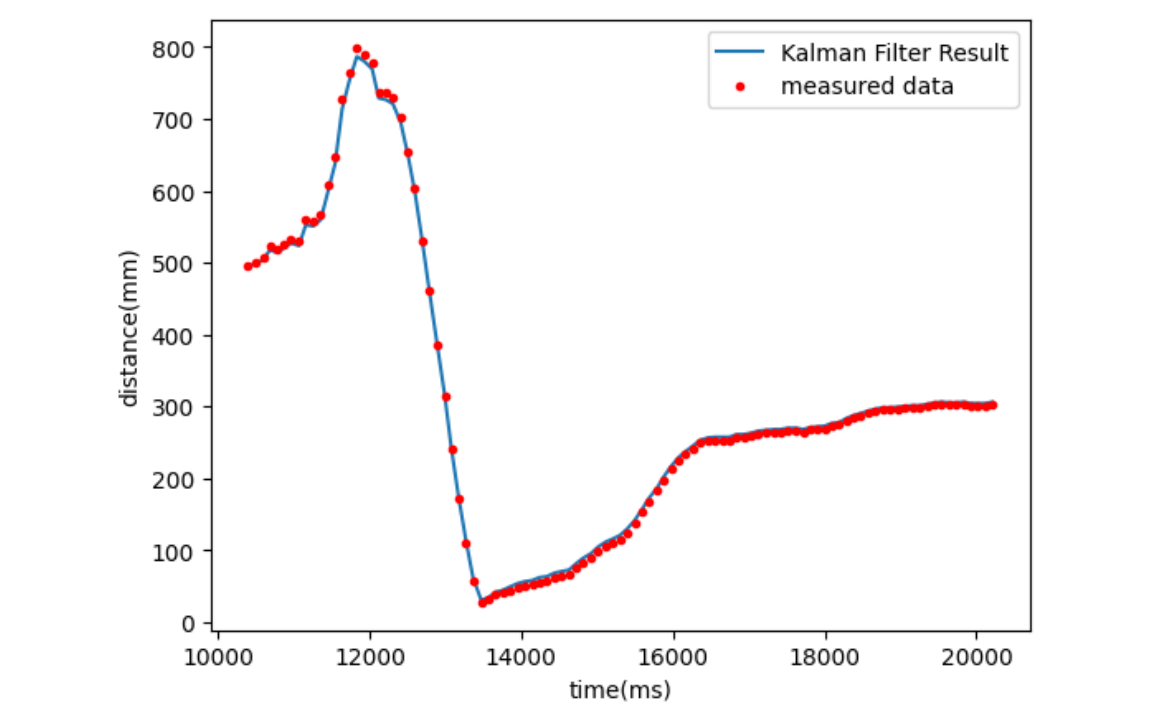
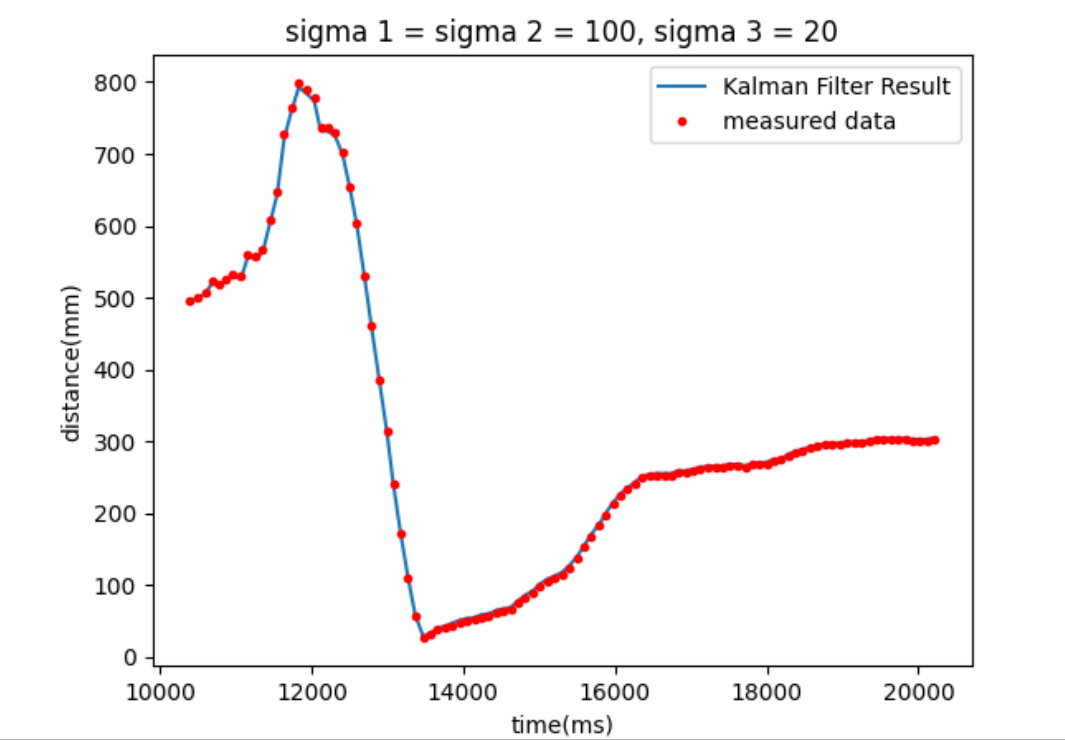
lab 7 update

diff --git a/index.html b/index.html
@@ -1162,7 +1162,7 @@ if(error > 5) {
               <hr>
               <h3> Lab Tasks </h3>
               <h4> 1. Estimate Drag and Momentum</h4>
-              <p style="text-align: left;padding: 0px 30px;"> I did not specify a PWM value nor a step size for lab 6, so I picked the maximum PWM value produced from the last run in Lab6 : PID controller, which was 83 out of 255. I used to store read data every 100ms even though I continously read from the sensor when it was ready and used that reading to compute PID. For now, I remove the 100ms limit and record every data point from cotinous reading to get fast sampling. Moreover, to get a smooth curve instead of stepwise curve for distance (which could result in a speed of 0 after calculation) as in lab 6, I store data in local arrays whenever ToF sensor 1 is ready. In the code shown below, I drive the car with the maximum PWM value of 83 for 2.5 seconds to ensure constant speed has been reached, and actively brake it using a PWM value of -83 for 0.5 second to ensure it does not crash into the wall, and then make it stop.  </p>
+              <p style="text-align: left;padding: 0px 30px;"> I did not specify a PWM value nor a step size for lab 6, so I picked the maximum PWM value produced from the last run in Lab6 : PID controller, which was 83 out of 255. I used to store read data every 100ms even though I continously read from the sensor when it was ready and used that reading to compute PID. For now, I remove the 100ms limit and record every data point from cotinous reading to get fast sampling. Moreover, to get a smooth curve instead of stepwise curve for distance (which could result in a speed of 0 after calculation) as in lab 6, I store data in local arrays whenever ToF sensor 1 is ready. In the code shown below, I drive the car with the maximum PWM value of 83 for 3 seconds to ensure constant speed has been reached, and stop it by setting PWM values to 0s. I did not use an active braking because there is enough distance between my car's starting position and the wall so that it never crashes into the wall.  </p>
       <br>
       <br>
       <div align="left";>  
@@ -1200,15 +1200,13 @@ case LAB_7:
           distanceSensor1.startRanging();
 
           // forward with PWM = 83 for 2.5 seconds
-          if(curr_time_imu - start_reading < 2500) {
+          if(curr_time_imu - start_reading < 3000) {
             PWM_temp = 83;
             motor_forward(PWM_temp);
-          // backward with PWM = 83 for 0.5 seconds for braking
-          } else if (curr_time_imu - start_reading < 3000) {
-            PWM_temp = -83;
-            motor_backward(PWM_temp*(-1));
+          // backward with PWM = 83 for 0.5 seconds for braking2300
+          } 
           // stop after 3 seconds
-          } else {
+          else {
             motor_stop();
             PWM_temp = 0;
           } 
@@ -1240,7 +1238,7 @@ case LAB_7:
   <img class="img-rounded" src="pics/lab7/lab7_3.png" alt="Generic placeholder image", height="350"> 
   <br>
   <br>
-  <p style="text-align: left;padding: 0px 30px;"> To compute Matrices A and B for the Kalman filter, we use the formulas from lecture notes. I find the maximum speed (converted from mm/ms to mm/s in unit) by finding the maximum number in the speed list recorded. To find the 90% rising time, we find the starting time and the time after the speed exceeds 90% of the maximum speed and compute their differences. To find drag d, I let u = 1 as discussed in lecture, and divide one by the maximum (constant) speed. </p>
+  <p style="text-align: left;padding: 0px 30px;"> To compute Matrices A and B for the Kalman filter, we use the formulas from lecture notes. I find the maximum speed (converted from mm/ms to mm/s in unit) by finding the maximum number in the speed list recorded. To find the 90% rising time, we find the starting time and the time after the speed exceeds 90% of the maximum speed and compute their differences. To find drag d, I let u = 1 as discussed in lecture, and divide one over the maximum (constant) speed. </p>
   <img class="img-rounded" src="pics/lab7/lab7_5.png" alt="Generic placeholder image", height="150">  
   <br>
   <br>
@@ -1257,20 +1255,72 @@ case LAB_7:
   <br>
   <img class="img-rounded" src="pics/lab7/lab7_8.png" alt="Generic placeholder image", height="350"> 
   <br>
-  <p style="text-align: left;padding: 0px 30px;"> Furthermore, I add noise control, setting the inital conidions, discretize A,B,C matrices, and define the Kalman Filter according to the instructions and lecture notes. For the noise estimation, I decide to use 100 for sigma measurement for now for both sigma 1 and sigma2. I measure sigma 3 based on delta time. To set the inital states, I set x in the same way as suggested by instruction, and sigma with sigma values shown in the lecture slides. After running the Kalman filter, we can see that the Kalman Filter esitmation curve is closely fitting the measured sensor distance data. </p>
+  <br>
+  <br>
+  <p style="text-align: left;padding: 0px 30px;"> Furthermore, I discretize A,B,C matrices, and define the Kalman Filter according to the instructions and lecture notes. <br> <br>
+
+  <br>
+  <img class="img-rounded" src="pics/lab7/lab7_12.png" alt="Generic placeholder image", height="325"> 
+  <br>
+  <br>
+  For the initial conidtions, x matrix has initial positions set to be the first ToF measured distance data and the starting speed set to 0. On the other hand, sig matrix which sets initial state uncertainties has sigma equals 5, meaning the initial standard deviation for distance and speed are set to 5. <br> <br>
+
+  <br>
+  <img class="img-rounded" src="pics/lab7/lab7_10.png" alt="Generic placeholder image", height="125"> 
+  <br>
+  <br>
+
+  For the noise estimation, there is process noise and sensor measurement noise so we need three sigmas: sigma 1 and sigma 2 to put in the matrix of process noise and sigma 3 to put in the matrix of sensor noise.  In my code, I use sig_measure for sigma 1 and sigma 2, and sig_proc for sigma 3. <br> <br> </p>
 
   <br>
   <img class="img-rounded" src="pics/lab7/lab7_9.png" alt="Generic placeholder image", height="350"> 
   <br>
-
-  <br>
-  <img class="img-rounded" src="pics/lab7/lab7_10.png" alt="Generic placeholder image", height="850"> 
   <br>
 
+  <p style="text-align: left;padding: 0px 30px;"> To calculate process noise, I decide to use 100 for sigma measurement at first for both sigma 1 and sigma2, and 20 for sigma3. In this case, the uncertainty for the model is big and we rely more on the sensor measurements than the model. After running the Kalman filter, we can see that the Kalman Filter esitmation curve is closely fitting the measured sensor distance data. </p>
+
   <br>
-  <img class="img-rounded" src="pics/lab7/lab7_11.png" alt="Generic placeholder image", height="550"> 
+  <img class="img-rounded" src="pics/lab7/lab7_13.png" alt="Generic placeholder image", height="450"> 
   <br>
-      </div>
+
+
+  <br>
+  <img class="img-rounded" src="pics/lab7/lab7_11.png" alt="Generic placeholder image", height="450"> 
+  <br>
+
+  <p style="text-align: left;padding: 0px 30px;"> For sigma 1 and sigma 2 equals 10 whereas sigma 3 equals 200, we reply now more on our model than the ToF sensor measurements. As we can see below, there is a large discrepency between the kalman filter estimates and sensor measured data.</p>
+
+  <br>
+  <img class="img-rounded" src="pics/lab7/lab7_14.png" alt="Generic placeholder image", height="450"> 
+  <br>
+  <br>
+  <br>
+
+  <p style="text-align: left;padding: 0px 30px;"> For sigma 1 and sigma2 equals 20 and sigma 3 equals 20, we do not have a large bias towards trusting either side of data, and we can see the kf result is not much off from the measured data. </p>
+
+  <br>
+  <img class="img-rounded" src="pics/lab7/lab7_15.png" alt="Generic placeholder image", height="450"> 
+  <br>
+  <br>
+
+  <h4> 3. Extrapolation</h4>
+  <p style="text-align: left;padding: 0px 30px;"> I use extrapolation on the Kalman Filter by introducing additional states at every half of the original sampling interval. More specifially, at each ToF distance data point, a new distance point is computed using the instantaneous speed at the last data point and the time passed (half of the sampling time). In this way, we basically doubling the sampling rate and thus making the robot adjustment more robust.</p>
+  <br>
+  <img class="img-rounded" src="pics/lab7/lab7_16.png" alt="Generic placeholder image", height="350"> 
+  <br>
+  <br>
+  <br>
+  <br>
+  <img class="img-rounded" src="pics/lab7/lab7_17.png" alt="Generic placeholder image", height="450"> 
+  <br>
+  <br>
+  <br>
+
+  <h3> Reference </h3>
+  <p style="text-align: left;padding: 0px 30px;"> I learn from TA Anya Prabowo's website and lecture slides for the Kalman Filter, I learn the idea of extrapolation from TA Joey and my classmate Zecheng Wang. </p>
+
+
+  </div>
 
     <hr id='lab8'>
     <br>
